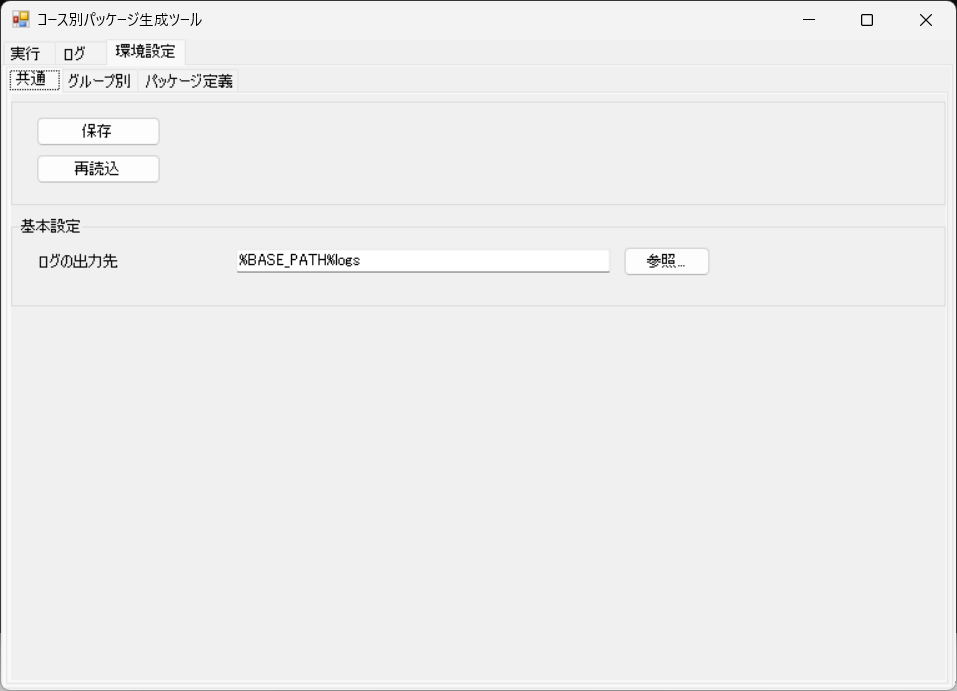
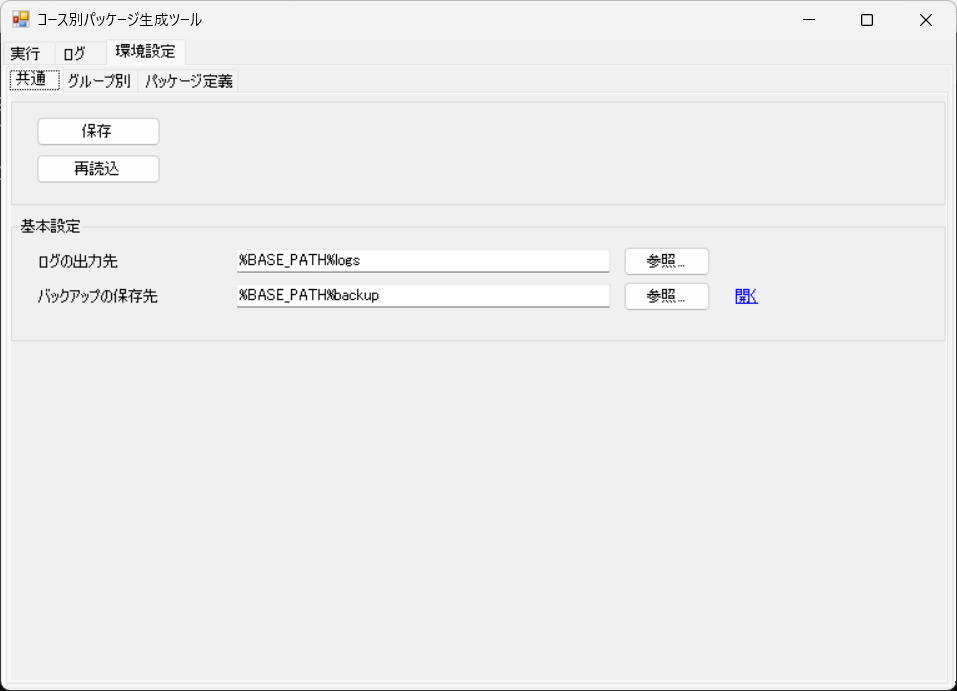
md

diff --git a/tool/package-generator/doc/03_結合テスト/テスト仕様書.md b/tool/package-generator/doc/03_結合テスト/テスト仕様書.md
@@ -43,7 +43,7 @@
 |---|---|---|---|---|---|---|
 | 1 | 正常系 | 対象のグループ：ok、タイトル：TestTitle、ファイル1：コースA.zip、グループ設定ファイル：ok.bat | 「実行（パッケージの作成）」を実行し、「実行（パッケージのアップロード）」で「対象のグループ」を設定し、「タイトル」と「ファイル1」を設定した後で、「実行」を押します。 | 状態：成功、ログ：レコードIDが出力される | 画面設計：3.3、処理フロー：2.3 | |
 | 2 | 正常系 | 対象のグループ：ok、タイトル：TestTitle、ファイル1〜3：入力なし（パッケージの出力先の zip を使う）、グループ設定ファイル：ok.bat | 「実行（パッケージの作成）」を実行し、「実行（パッケージのアップロード）」で「対象のグループ」と「タイトル」を設定した後で、「実行」を押します。 | 状態：成功、ログ：レコードIDが出力される | 画面設計：3.3、処理フロー：2.3 | |
-| 3 | 正常系 | 対象のグループ：ok、タイトル：TestTitle、ファイル1：コースA.zip、グループ設定ファイル：ok.bat | 「実行（パッケージの作成）」を実行し、「実行（パッケージのアップロード）」で「対象のグループ」を設定し、「タイトル」と「ファイル1」を設定した後で、「実行」を押した後で、「実行」を押します。 | 状態：成功、既存のレコード：更新される、ログ：「同じタイトルのレコードを更新しました: レコードID（数字）」 | 画面設計：3.3、処理フロー：2.3 | |
+| 3 | 正常系 | 対象のグループ：ok、タイトル：TestTitle、ファイル1：コースA.zip、グループ設定ファイル：ok.bat | 「実行（パッケージの作成）」を実行し、「実行（パッケージのアップロード）」で「対象のグループ」を設定し、「タイトル」と「ファイル1」を設定した後で、「実行」を押した後で、「実行」を押します。 | 状態：成功、既存のレコード：更新される、ログ：「同じタイトルのレコードを更新しました: レコードID（数字）」、ログ：「バックアップしました」が出る | 画面設計：3.3、処理フロー：2.3 | |
 | 4 | 正常系 | 対象のグループ：ok、タイトル：TestTitle、ファイル1：コースA.zip、説明：テスト説明、グループ設定ファイル：ok.bat | 「実行（パッケージの作成）」を実行し、「実行（パッケージのアップロード）」で「対象のグループ」を設定し、「タイトル」と「ファイル1」と「説明」を設定した後で、「実行」を押します。 | 状態：成功、ログ：入力した説明が入る | 画面設計：3.3、処理フロー：2.3 | |
 | 5 | 正常系 | 対象のグループ：ok、ファイル1：コースA.zip、グループ設定ファイル：ok.bat | 「実行（パッケージのアップロード）」で「対象のグループ」と「ファイル1」を設定した後で、「クリア（ファイル1）」を押します。 | ファイル1：空 | 画面設計：3.3 | |
 | 6 | 正常系 | 対象のグループ：ok、ファイル2：コースA.zip、グループ設定ファイル：ok.bat | 「実行（パッケージのアップロード）」で「対象のグループ」と「ファイル2」を設定した後で、「クリア（ファイル2）」を押します。 | ファイル2：空 | 画面設計：3.3 | |
@@ -74,7 +74,9 @@
 |---|---|---|---|---|---|---|
 | 1 | 正常系 | ログの出力先：saved-log-path | 「ログの出力先」を設定した後で、「保存」を押します。 | 共通設定ファイル：common.batにCommonLogPath=saved-log-path が保存される、状態（保存）：完了 | 画面設計：3.5、処理フロー：2.5 | |
 | 2 | 正常系 | ログの出力先：tmp-reload | 「ログの出力先」を設定した後で、「再読込」を押します。 | ログの出力先：（保存されている値）、状態（再読込）：完了 | 画面設計：3.5、処理フロー：2.6 | |
-| 3 | 正常系 |  | 「再読込」を押します。 | 状態（再読込）：完了 | 画面設計：3.5、処理フロー：2.6 |  |
+| 3 | 正常系 | バックアップの保存先：saved-backup | 「バックアップの保存先」を設定した後で、「保存」を押します。 | 共通設定ファイル：common.batにCommonBackupPath=saved-backup が保存される、状態（保存）：完了 | 画面設計：3.5、処理フロー：2.5 | |
+| 4 | 正常系 | バックアップの保存先：tmp-reload | 「バックアップの保存先」を設定した後で、「再読込」を押します。 | バックアップの保存先：（保存されている値）、状態（再読込）：完了 | 画面設計：3.5、処理フロー：2.6 | |
+| 5 | 正常系 | 入力なし（規定値のバックアップの保存先） | 「開く（バックアップの保存先）」を押します。 | 開く：バックアップの保存先のフォルダ（backup） | 画面設計：3.5 | |
 
 <div class="pagebreak"></div>
 

diff --git a/tool/package-generator/doc/05_リリース/操作マニュアル.md b/tool/package-generator/doc/05_リリース/操作マニュアル.md
@@ -47,6 +47,7 @@
 | 4 | 共通 | 状態（再読込） | 表示 | 再読込の状態を表示します。 |
 | 5 | 基本設定 | ログの出力先 | 入力欄 | 実行ログを出力するフォルダを指定します。 |
 | 6 | 基本設定 | バックアップの保存先 | 入力欄 | 既存のレコードを更新したときに、アップロードした zip を保存するフォルダを指定します。 |
+| 7 | 基本設定 | 開く（バックアップの保存先） | リンク | バックアップの保存先のフォルダを開きます。 |
 
 #### 操作方法
 

diff --git a/tool/package-generator/doc/02_設計/画面設計.md b/tool/package-generator/doc/02_設計/画面設計.md
@@ -143,6 +143,7 @@ flowchart TD
 |---|---|---|---|
 | 1 | ログの出力先 | 入力欄 | 実行ログを出力するフォルダを入力します。 |
 | 2 | バックアップの保存先 | 入力欄 | 既存のレコードを更新したときに、アップロードした zip を保存するフォルダを入力します。 |
+| 3 | 開く（バックアップの保存先） | リンク | バックアップの保存先のフォルダを開きます。 |
 
 <div class="pagebreak"></div>
 
